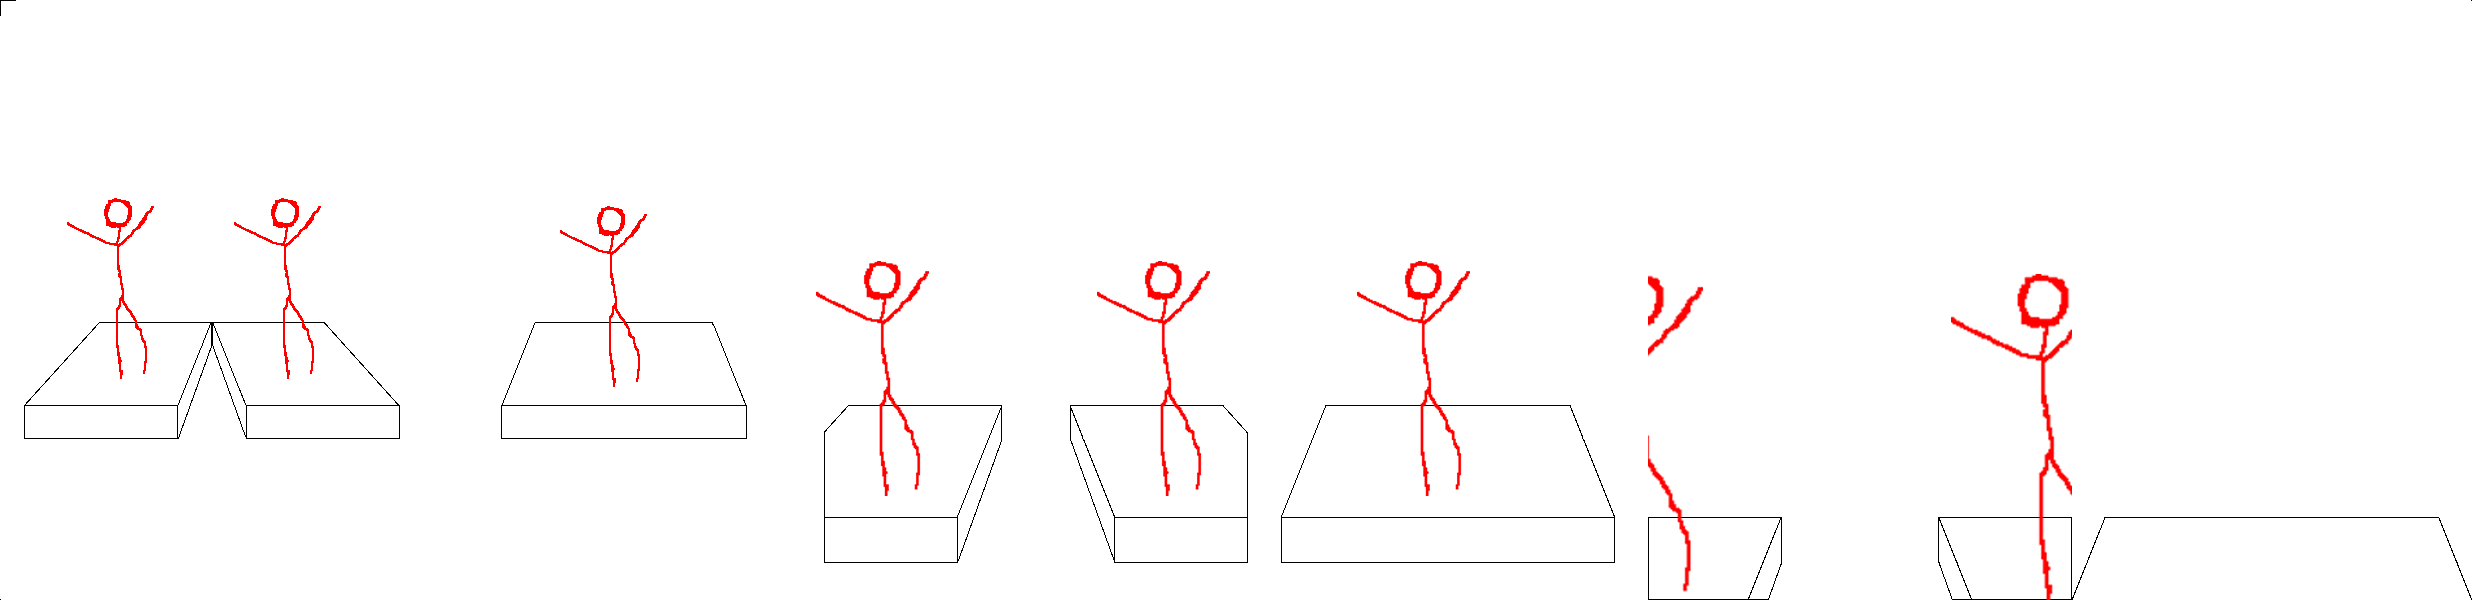
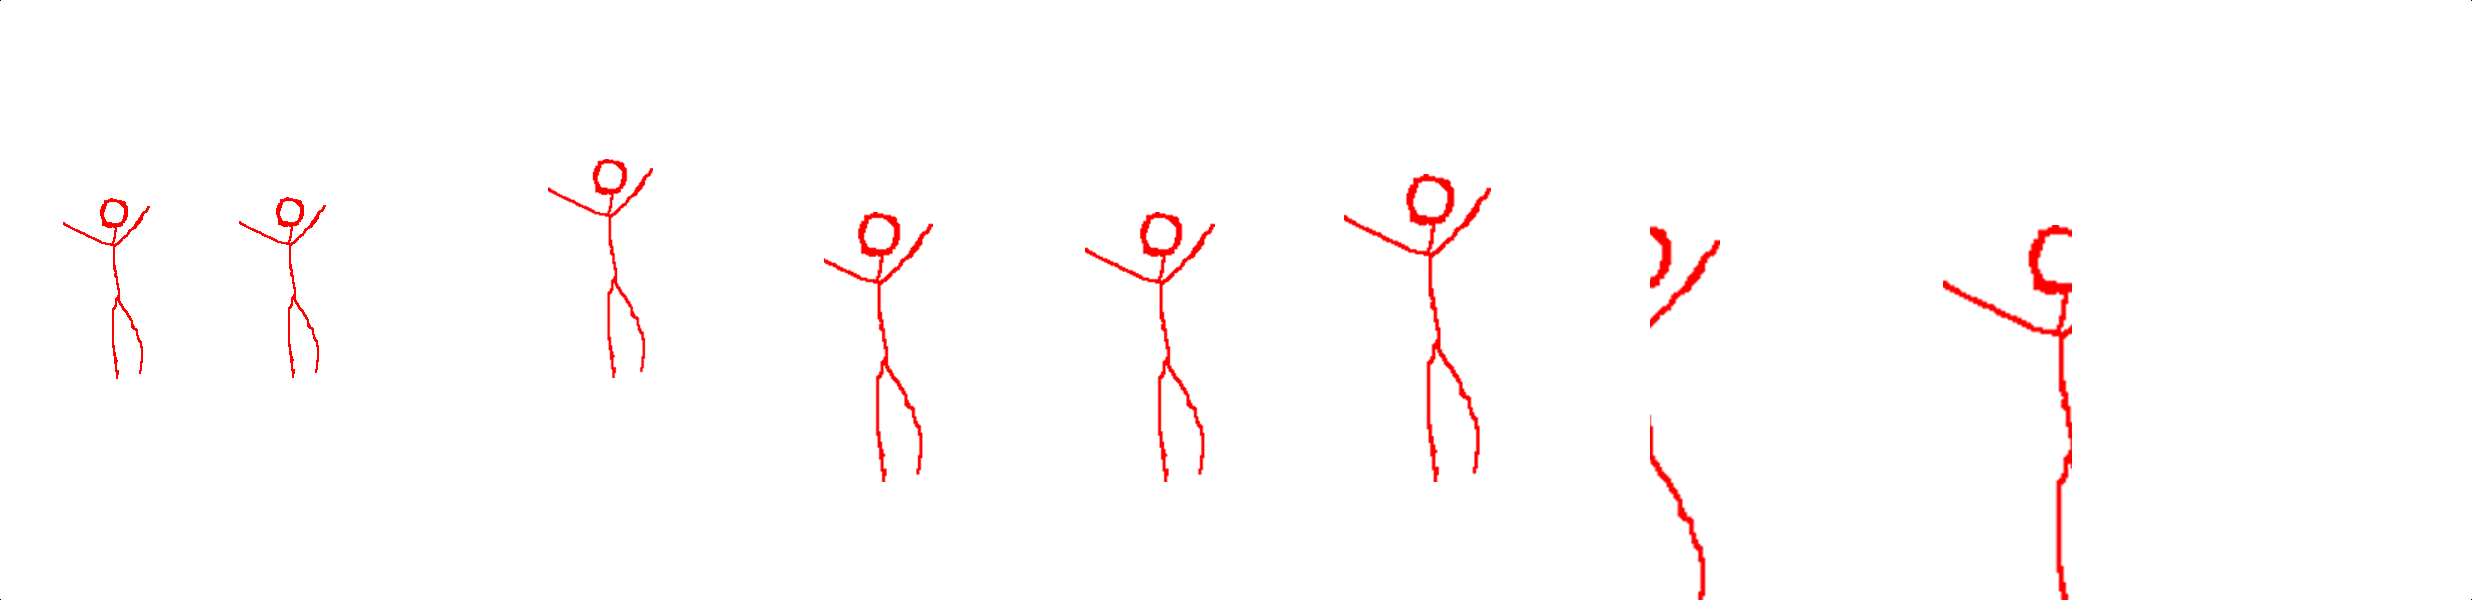
Updated some assets and reorganised the renderer to be more clear

diff --git a/ui/DungeonCanvas.java b/ui/DungeonCanvas.java
@@ -31,6 +31,7 @@ public class DungeonCanvas extends JPanel{
 	private Image empty;
 	private Image brick;
 	private Image players;
+	private Image door;
 	
 	private int[] imageXPositions = {0, 212, 424, 824, 1036, 1248,
 			1648, 1860, 2072, 2472};
@@ -46,6 +47,7 @@ public class DungeonCanvas extends JPanel{
 		brick = loadImage("raised_brick.png");
 		flat = loadImage("placeholder_flat.png");
 		players = loadImage("placeholder_player.png");
+		door = loadImage("placeholder_door.png");
 		
 	}
 	
@@ -81,30 +83,23 @@ public class DungeonCanvas extends JPanel{
 				else{spriteSize = 400;}
 				
 				Tile tile = tiles.remove();
-				String tileImageName = tile.getTileImage();	
-				Image tileImage = null;
+				Image tileImage = getTileImage(tile.getTileImage());
+				Image itemImage = getItemImage(tile.getItemImage());
 				
-				if(tileImageName.equals("GRASS")){
-					tileImage = flat;
-				}
-				else if(tileImageName.equals("WALL")){
-					tileImage = wall;
-				}
-				else if(tileImageName.equals("RAISED")){
-					tileImage = raisedTile;
-				}
-				else if(tileImageName.equals("EMPTY")){
-					tileImage = empty;
-				}
-				else if(tileImageName.equals("BRICK")){
-					tileImage = brick;
-				}
-
+				
+				//Draws the Tile first 
 				g.drawImage(tileImage, screenXPositions[col], 0,screenXPositions[col] + spriteSize, 600, imageXPositions[count],0,
 						imageXPositions[count] + spriteSize, 600, null);
 				
+				//If there is a player then draws them
 				if(tile.getPlayer() != null){
 					g.drawImage(players, screenXPositions[col], 0,screenXPositions[col] + spriteSize, 600, imageXPositions[count],0,
+							imageXPositions[count] + spriteSize, 600, null);
+				}
+				
+				//Finally draws any items on top of the player
+				if(itemImage != null){
+					g.drawImage(item, screenXPositions[col], 0,screenXPositions[col] + spriteSize, 600, imageXPositions[count],0,
 							imageXPositions[count] + spriteSize, 600, null);
 				}
 				
@@ -124,8 +119,40 @@ public class DungeonCanvas extends JPanel{
 		}
 	}
 
+	private Image getTileImage(String tileImageName){
+		if(tileImageName.equals("GRASS")){
+			return flat;
+		}
+		else if(tileImageName.equals("WALL")){
+			return wall;
+		}
+		else if(tileImageName.equals("RAISED")){
+			return raisedTile;
+		}
+		else if(tileImageName.equals("EMPTY")){
+			return empty;
+		}
+		else if(tileImageName.equals("BRICK")){
+			return brick;
+		}
+		else if(tileImageName.equals("DOOR")){
+			return door;
+		}
+		else{
+			return flat;
+		}
+	}
 	
-	public void drawMap(Graphics g){
+	private Image getItemImage(String tileImageName){
+		if(!tileImageName.equals("")){
+			return item;
+		}
+		else{
+			return null;
+		}
+	}
+	
+	private void drawMap(Graphics g){
 		//Gets the entire board as one arrayList of String
 		ArrayList<String> map = player.getBoard().getMiniMap();
 		

diff --git a/gameWorld/LevelParser.java b/gameWorld/LevelParser.java
@@ -94,7 +94,7 @@ public class LevelParser {
 		//D represents a door
 		else if(c == 'D'){
 			//return new DoorTile(xPos, yPos);
-			return new GroundTile("FLOOR"); //for now until door img is done
+			return new DoorTile("DOOR"); //for now until door img is done
 		}
 		//F represents a raised ground tile (non-grassy)
 		else if(c == 'R'){

diff --git a/tiles/Tile.java b/tiles/Tile.java
@@ -31,7 +31,7 @@ public abstract class Tile {
 		if(item != null){
 			return this.item.getName();
 		}
-		else return "empty.png";
+		else return "";
 	}
 	
 	public String getTileImage(){
